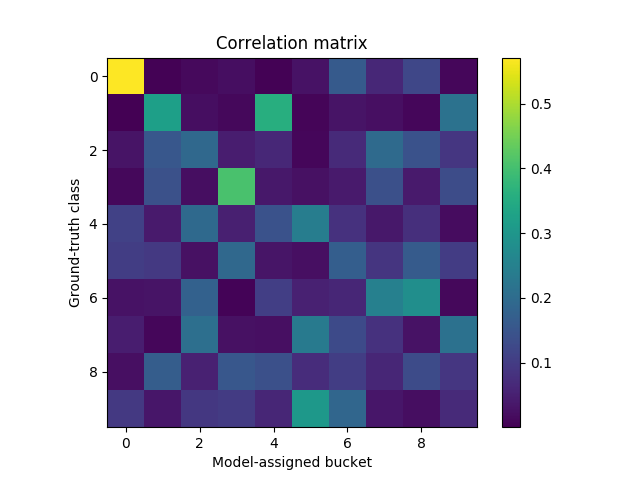
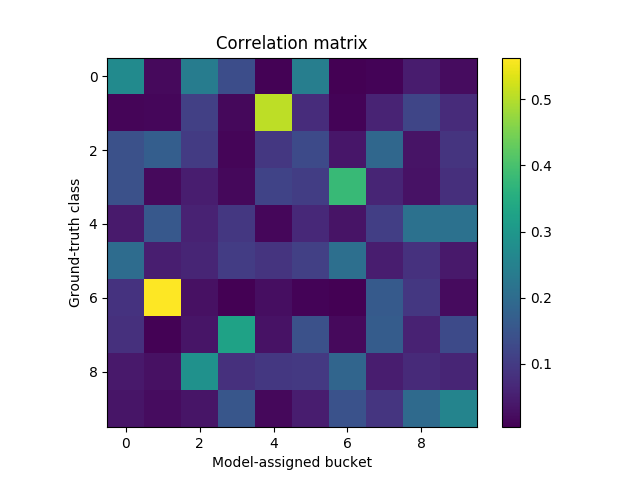
reorganize, moons work, retune mnist

diff --git a/d_graph_plus/tasks/moons.py b/d_graph_plus/tasks/moons.py
@@ -2,8 +2,6 @@ import numpy as np
 import tensorflow as tf
 from sklearn.datasets import make_moons
 import matplotlib.pyplot as plt
-from ..manager import predict
-from ..data import must_link, cannot_link
 
 
 # dataset
@@ -19,6 +17,7 @@ num_must = 12
 num_cannot = 12
 batch_size = len(examples)
 learning_rate = 1e-4
+num_episodes = 4096
 
 
 class model:
@@ -28,10 +27,11 @@ class model:
     layers.append(tf.layers.dense(inputs=layers[-1], units=8, activation=tf.nn.relu))
     layers.append(tf.layers.dense(inputs=layers[-1], units=8, activation=tf.nn.relu))
     output = tf.layers.dense(inputs=layers[-1], units=num_classes, activation=tf.nn.softmax)
-    layers.append[output]
+    layers.append(output)
 
 
 def visualize(res=(64, 64)):
+    # TODO: make this available somewhere, avoiding circular import
     # calculate the box area to plot on
     left = np.min(examples[:, 0])
     right = np.max(examples[:, 0])

diff --git a/d_graph_plus/manager.py b/d_graph_plus/manager.py
@@ -1,16 +1,16 @@
 import numpy as np
 import tensorflow as tf
 from tqdm import trange
-import optimizer
-from tasks import current as task
-import data
+import d_graph_plus.optimizer as optimizer
+from d_graph_plus.tasks import current as task
+import d_graph_plus.data as data
 
 
 sess = tf.InteractiveSession()
 sess.run(tf.global_variables_initializer())
 
 
-def train(num_episodes=4096):
+def train(num_episodes=task.num_episodes):
     print('Training...')
     for episode in trange(num_episodes):
         examples, sameness = data.batch(size=task.batch_size)

diff --git a/d_graph_plus/tasks/mnist.py b/d_graph_plus/tasks/mnist.py
@@ -6,8 +6,10 @@ from tensorflow.keras.datasets import mnist
 # dataset
 image_dim = 28
 num_classes = 10
+num_kept = 4096
 
 (examples, classes), (_, _) = mnist.load_data()
+examples, classes = examples[:num_kept], classes[:num_kept] # they are already shuffled, no worries
 examples = examples / 255.0
 
 
@@ -15,7 +17,8 @@ examples = examples / 255.0
 num_must = 1024
 num_cannot = 1024
 batch_size = 128
-learning_rate = 1e-4
+learning_rate = 4e-4
+num_episodes = 1024
 
 
 class model:

diff --git a/demo.py b/demo.py
@@ -1,11 +1,8 @@
-import numpy as np
-from manager import train, eval
-import visualize
-from tasks import current as task
+import d_graph_plus
 
 
-print('Pre-training loss: ' + str(eval()))
-train()
+print('Pre-training loss: ' + str(d_graph_plus.eval()))
+d_graph_plus.train()
 print('Training done.')
-print('Post-training loss: ' + str(eval()))
-visualize.correlation()
+print('Post-training loss: ' + str(d_graph_plus.eval()))
+d_graph_plus.visualize.correlation()

diff --git a/d_graph_plus/visualize.py b/d_graph_plus/visualize.py
@@ -1,8 +1,8 @@
 import numpy as np
 import matplotlib.pyplot as plt
-from data import batch
-from manager import predict
-from tasks import current as task
+from d_graph_plus.data import batch
+from d_graph_plus.manager import predict
+from d_graph_plus.tasks import current as task
 
 
 def correlation():

diff --git a/d_graph_plus/__init__.py b/d_graph_plus/__init__.py
@@ -1,0 +1,6 @@
+from d_graph_plus.manager import train, eval
+import d_graph_plus.visualize
+from d_graph_plus.tasks import current as task
+
+
+__all__ = ['tasks', 'data', 'manager', 'optimizer', 'visualize']

diff --git a/d_graph_plus/optimizer.py b/d_graph_plus/optimizer.py
@@ -1,5 +1,5 @@
 import tensorflow as tf
-from tasks import current as task
+from d_graph_plus.tasks import current as task
 
 
 # maximize/minimize the probability that i and j are in the same class

diff --git a/d_graph_plus/data.py b/d_graph_plus/data.py
@@ -1,5 +1,5 @@
 import numpy as np
-from tasks import current as task
+from d_graph_plus.tasks import current as task
 
 
 print(f'Preparing {task.num_must} must-link pairs...')

diff --git a/d_graph_plus/tasks/__init__.py b/d_graph_plus/tasks/__init__.py
@@ -1,0 +1,3 @@
+from d_graph_plus.tasks import mnist as current
+
+__all__ = ['moons', 'mnist']
